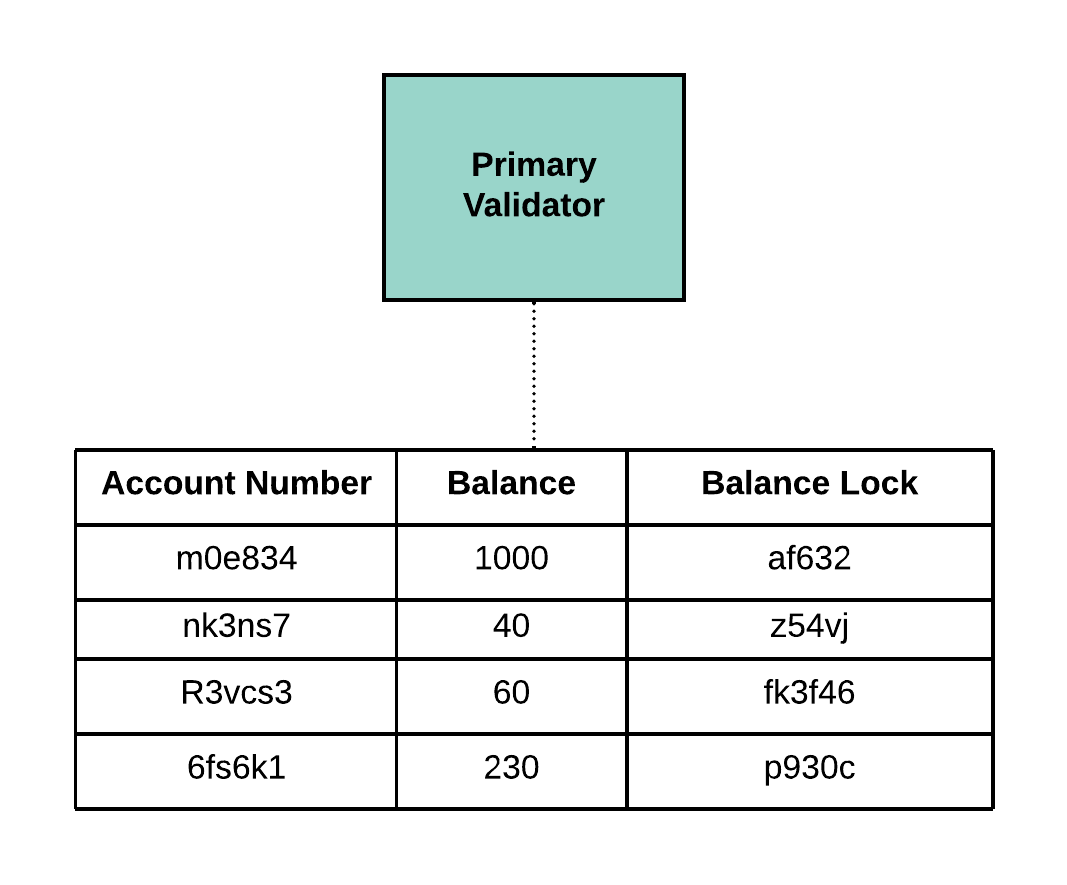
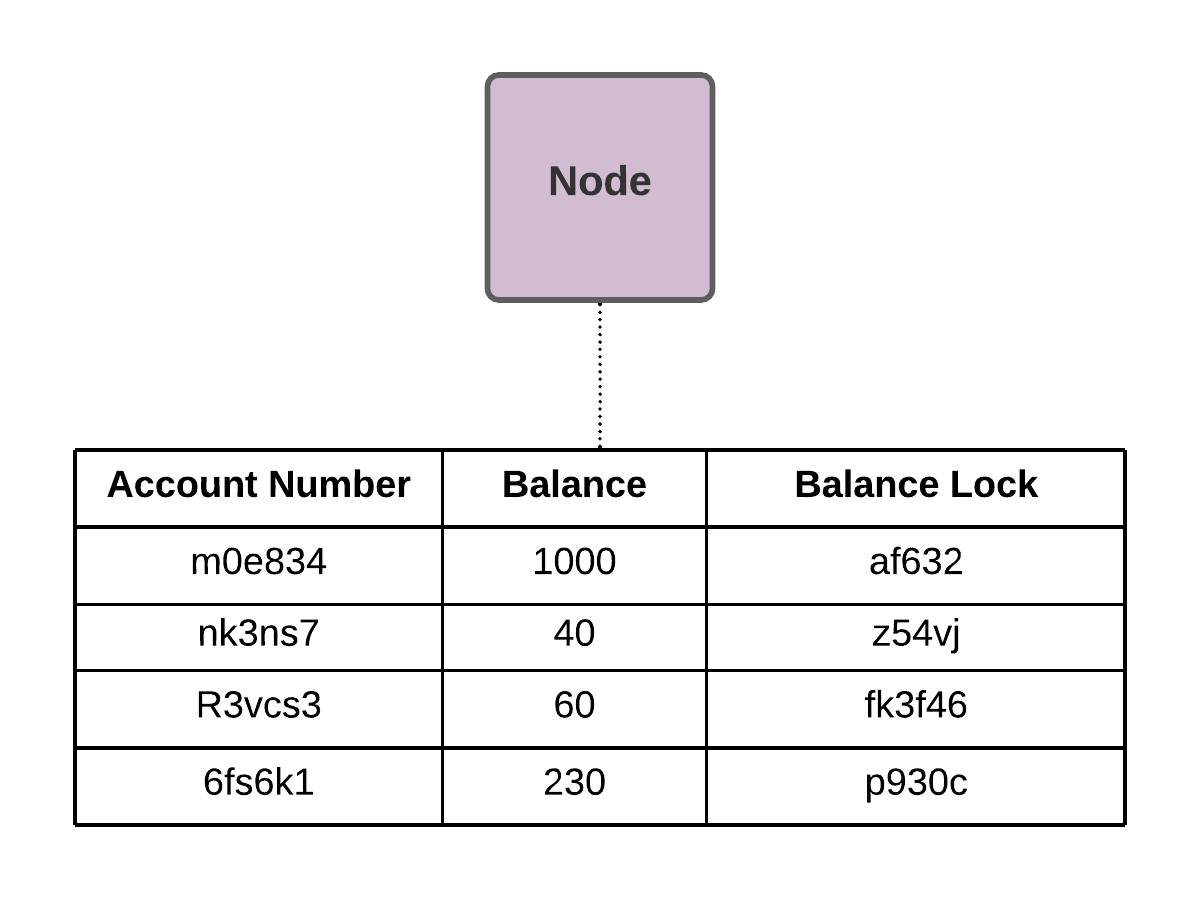
Updated root account file docs

diff --git a/src/containers/Guide/GuideRootAccountFile/index.tsx b/src/containers/Guide/GuideRootAccountFile/index.tsx
@@ -8,14 +8,14 @@ const GuideRootAccountFile: FC = () => {
   return (
     <DocContainer className="GuideRootAccountFile" title="Root Account File" lastUpdated="07 Dec 2020">
       <p>
-        The root account file is a historic snapshot of all account balances at a given point in time. Every validator
-        in the network, both primary and confirmation validators, generate and maintain their own root account file.
-        Different validators may have different account files depending on when the snapshot was taken (which is usually
-        when the node first comes online). However, given the architecture of the blockchain, all other nodes in the
-        network can download and verify all validator account files regardless of when the snapshot was taken.
+        The root account file is a historic snapshot of all account balances at a given point in time. Every node in the
+        network generate and maintain their own root account file. Different nodes may have different account files
+        depending on when the snapshot was taken (which is usually when the node first comes online). However, given the
+        architecture of the blockchain, all other nodes in the network can download and verify all node account files
+        regardless of when the snapshot was taken.
       </p>
 
-      <DocImage alt="root account file" maxWidth={440} src={RootAccountFileDiagram} />
+      <DocImage alt="root account file" maxWidth={500} src={RootAccountFileDiagram} />
 
       <p>
         A key distinction between the architecture outlined above and the Bitcoin Blockchain (as well as many others) is
@@ -67,7 +67,7 @@ const GuideRootAccountFile: FC = () => {
       />
       <p>
         Bucky is skeptical about the balances. He believes that the balances are not legitimate and suspects that Amy
-        may have hacked the bank and changed her account balance. So Bucky views the transaction log and notices some
+        may have hacked the node and changed her account balance. So Bucky views the transaction log and notices some
         changes there as well.
       </p>
       <TableBorderGrid
@@ -79,7 +79,7 @@ const GuideRootAccountFile: FC = () => {
         title="Transaction Log"
       />
       <p>
-        Unfortunately, the bank has not updated its database in years and is only able to store up to two rows in the
+        Unfortunately, the node has not updated its database in years and is only able to store up to two rows in the
         transaction table; it's a very primitive economy after all. The historical log of the first transaction is lost,
         and Bucky never wrote it down. However, since Bucky had already verified the first transaction and also made a
         copy of the account file at that point in time, he does not need to view the first transaction again to ensure
@@ -151,28 +151,10 @@ const GuideRootAccountFile: FC = () => {
         (via the blockchain) for as far back as they can. In practice, nodes will never need to maintain a record of
         transactions more than a few hours old. This is because every node in the system is always in constant
         communication with each other, and every node is always verifying the transactions of others. Overall, the
-        architecture is structured around a central primary validator. Despite this, if the account file or blockchain
-        produced by that validator is ever deemed "invalid" by the confirmation validators who are continuously
-        verifying the data, all nodes will reject the updated balances, decrease trust in that validator, and switch
-        over to a new primary validator as a replacement.
+        architecture is structured around a primary validator. Despite this, if the account file or blockchain produced
+        by that PV is ever deemed "invalid" by the nodes who are continuously verifying the data, all nodes will reject
+        the updated balances, decrease trust in that PV, and switch over to a new PV as a replacement.
       </p>
-      <p>
-        We will cover the concept of "trust" in much more detail later on, but for now we can simplify the concept down
-        to some key ideas.
-      </p>
-
-      <DocList variant="ul">
-        <li>Nodes always want to connect to other nodes that they trust.</li>
-        <li>Trust is increased when you can prove that a given node is telling the truth.</li>
-        <ul>
-          <li>Meaning that the data received from that node can be validated</li>
-        </ul>
-        <li>
-          The further back in time a node is able to provide a transaction history via the blockchain, the more
-          transactions are able to be verified (by comparing them against your own) and the more trust can be
-          established between nodes.
-        </li>
-      </DocList>
     </DocContainer>
   );
 };
